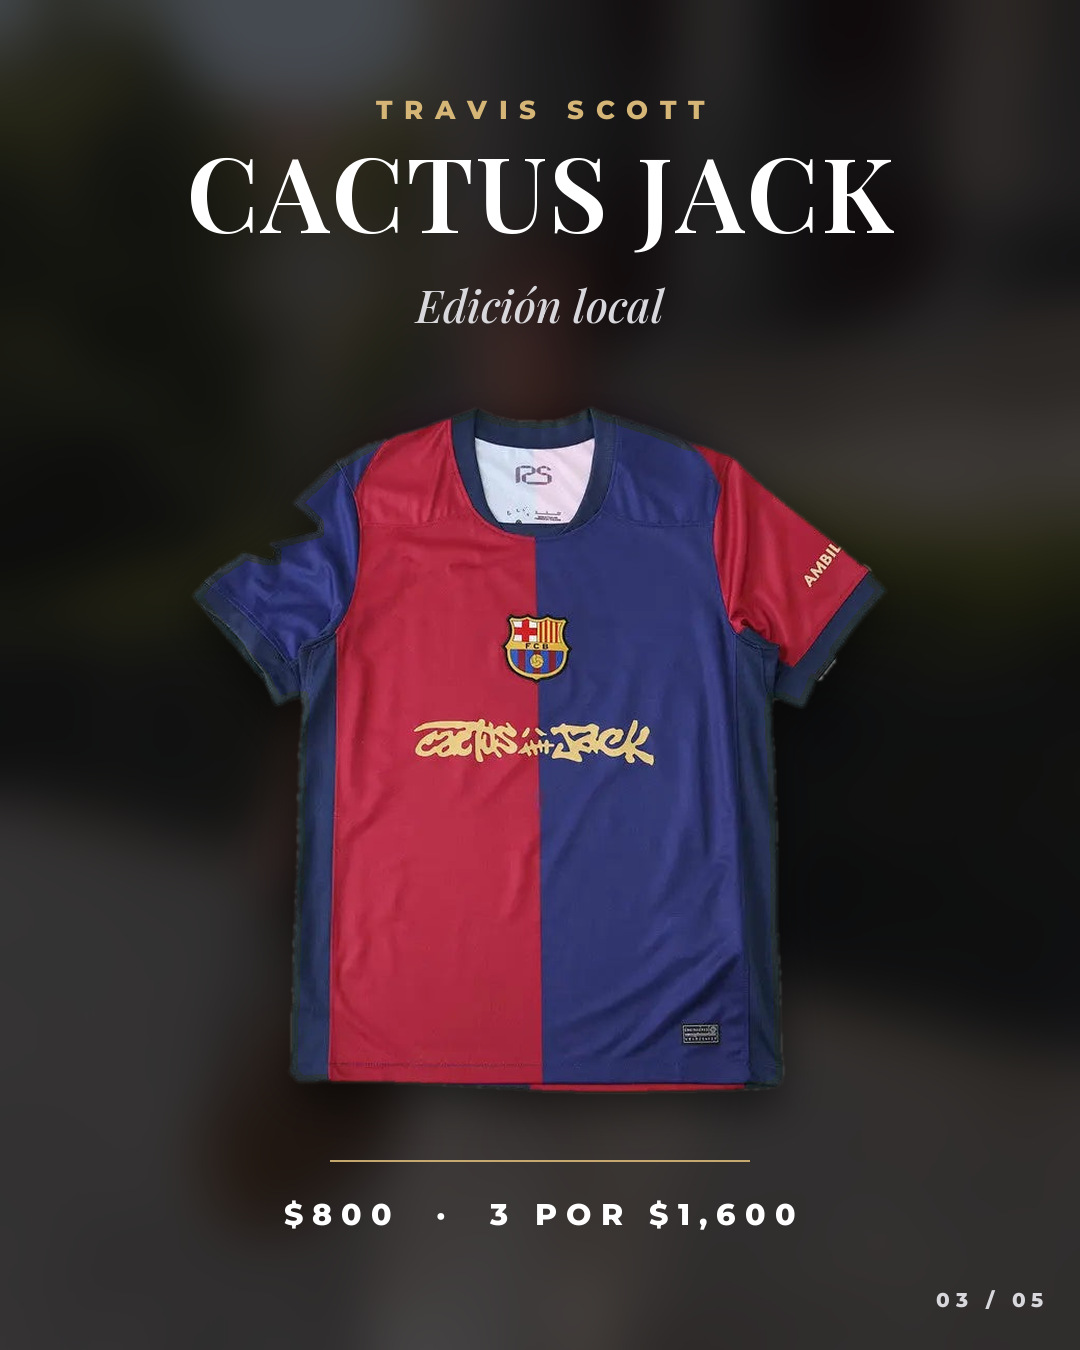
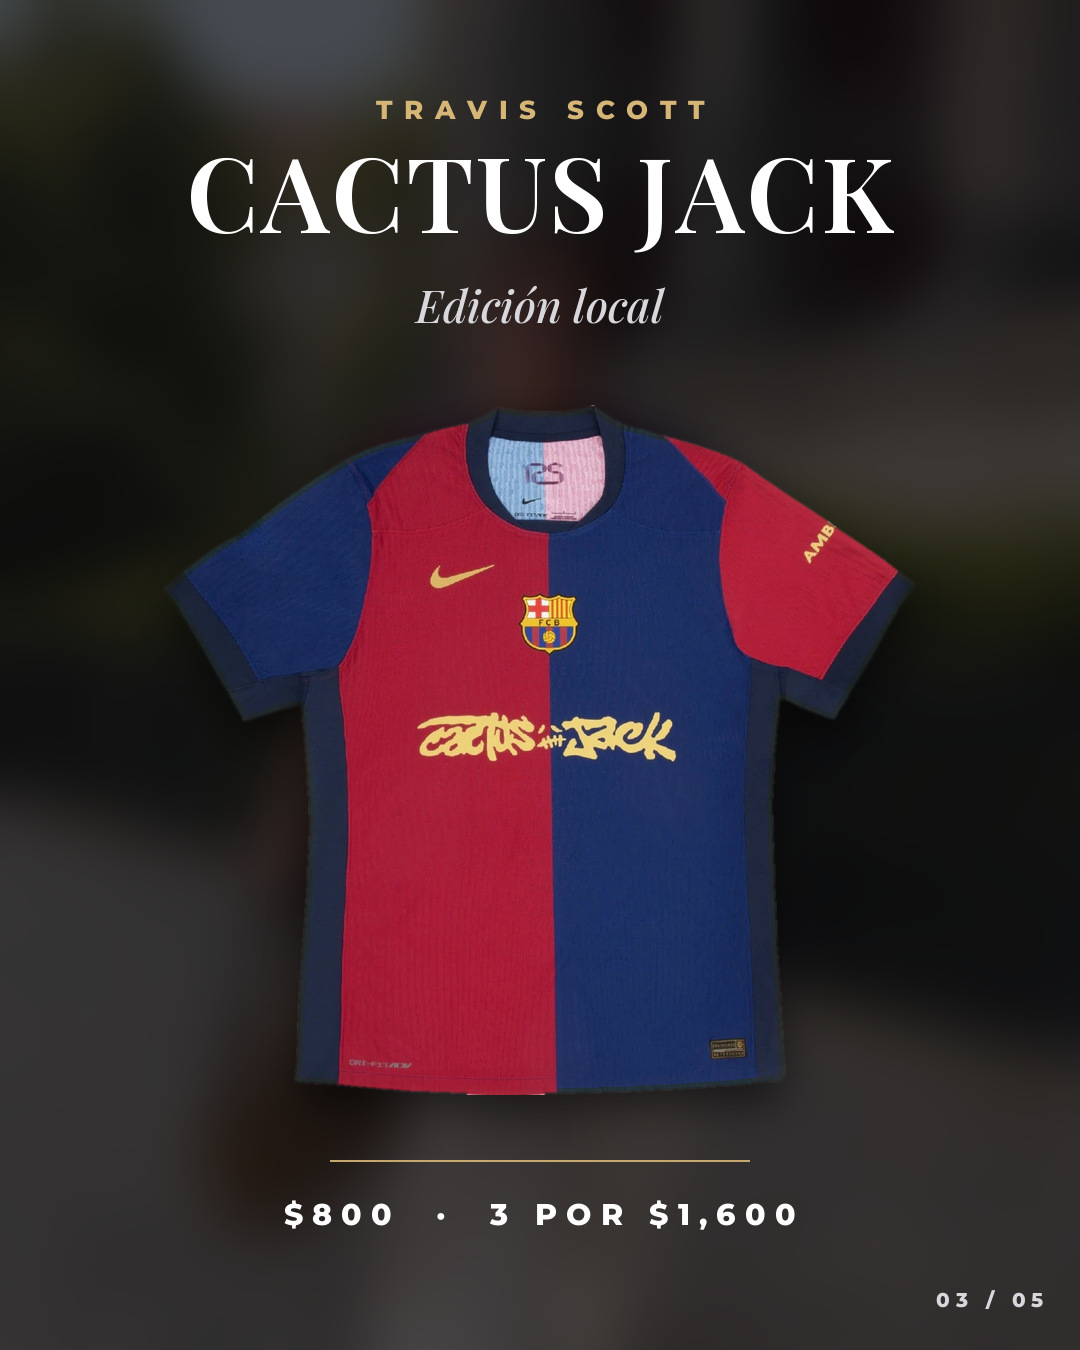
Carrusel Spotify: fotos nuevas de Travis Scott y Ed Sheeran; mismas fotos como principal en Shopify
Claude-Session: https://claude.ai/code/session_01Y3XEkftw7SELToetvsGNVM

Changed region(s): [[0.1528, 0.3111, 0.8556, 0.8089]]

diff --git a/ads/carrusel_spotify.py b/ads/carrusel_spotify.py
@@ -17,8 +17,8 @@ cr.PHOTO = g.HERE + "out/hf_ads/raw/barca-outpaint-4k.png"  # foto del cliente a
 
 JERSEYS = [
     ("spotify/golf.png", "TYLER, THE CREATOR", "GOLF", "El logo de Golf Wang en el pecho"),
-    ("spotify/sheeran.png", "ED SHEERAN", "PLAY", "Su álbum de 2025 en la camiseta"),
-    ("spotify/travis_fan.png", "TRAVIS SCOTT", "CACTUS JACK", "Edición local"),
+    ("spotify/sheeran_v2.png", "ED SHEERAN", "PLAY", "Su álbum de 2025 en la camiseta"),
+    ("spotify/travis_fan_v2.png", "TRAVIS SCOTT", "CACTUS JACK", "Edición local"),
     ("spotify/travis_2425.png", "TRAVIS SCOTT", "CACTUS JACK", "Edición visitante en negro"),
     ("spotify/travis_skel.png", "TRAVIS SCOTT  ·  RETRO 2000/01", "SKELETON", "La local 2000/01, reinterpretada"),
 ]
